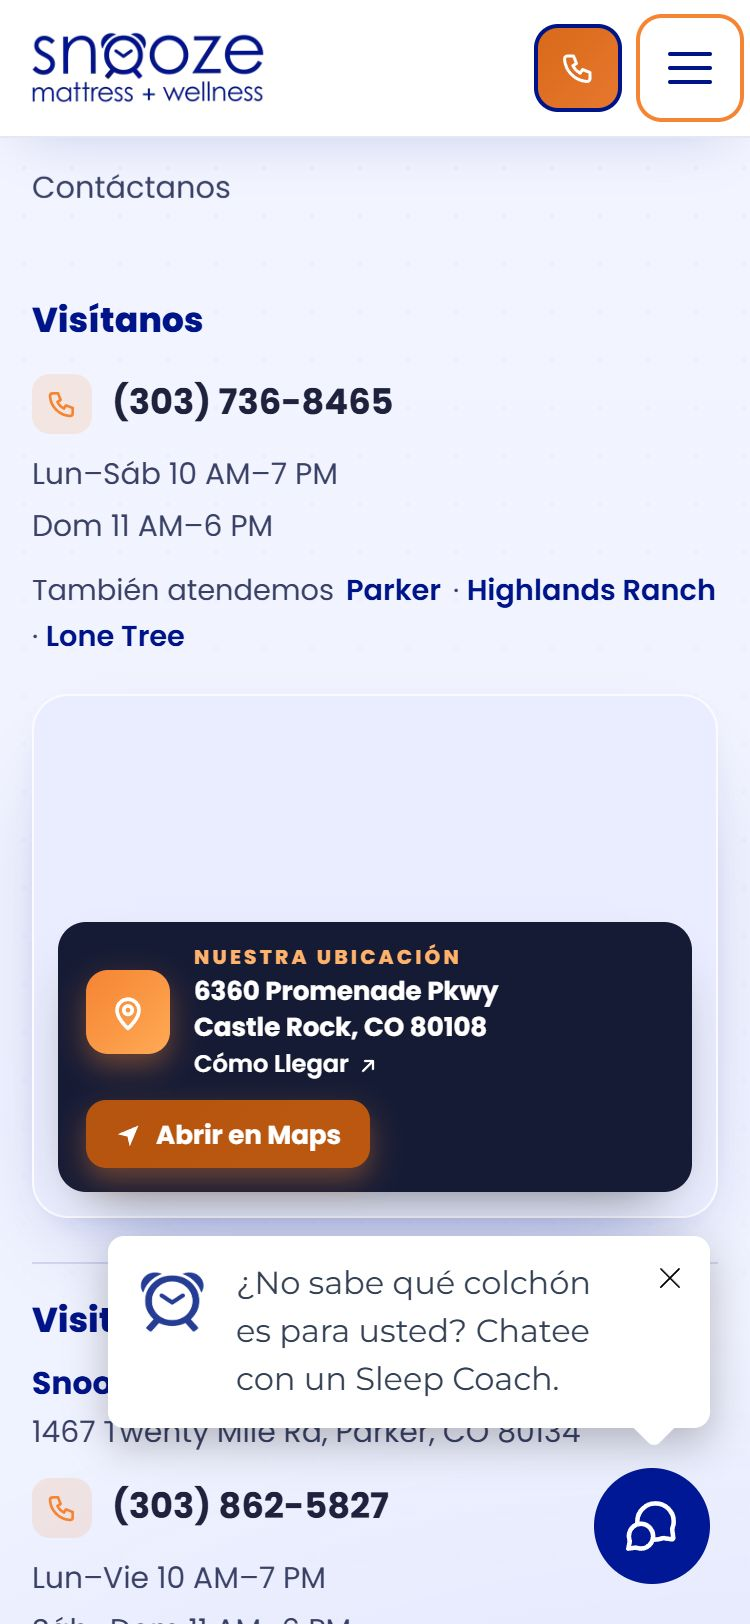
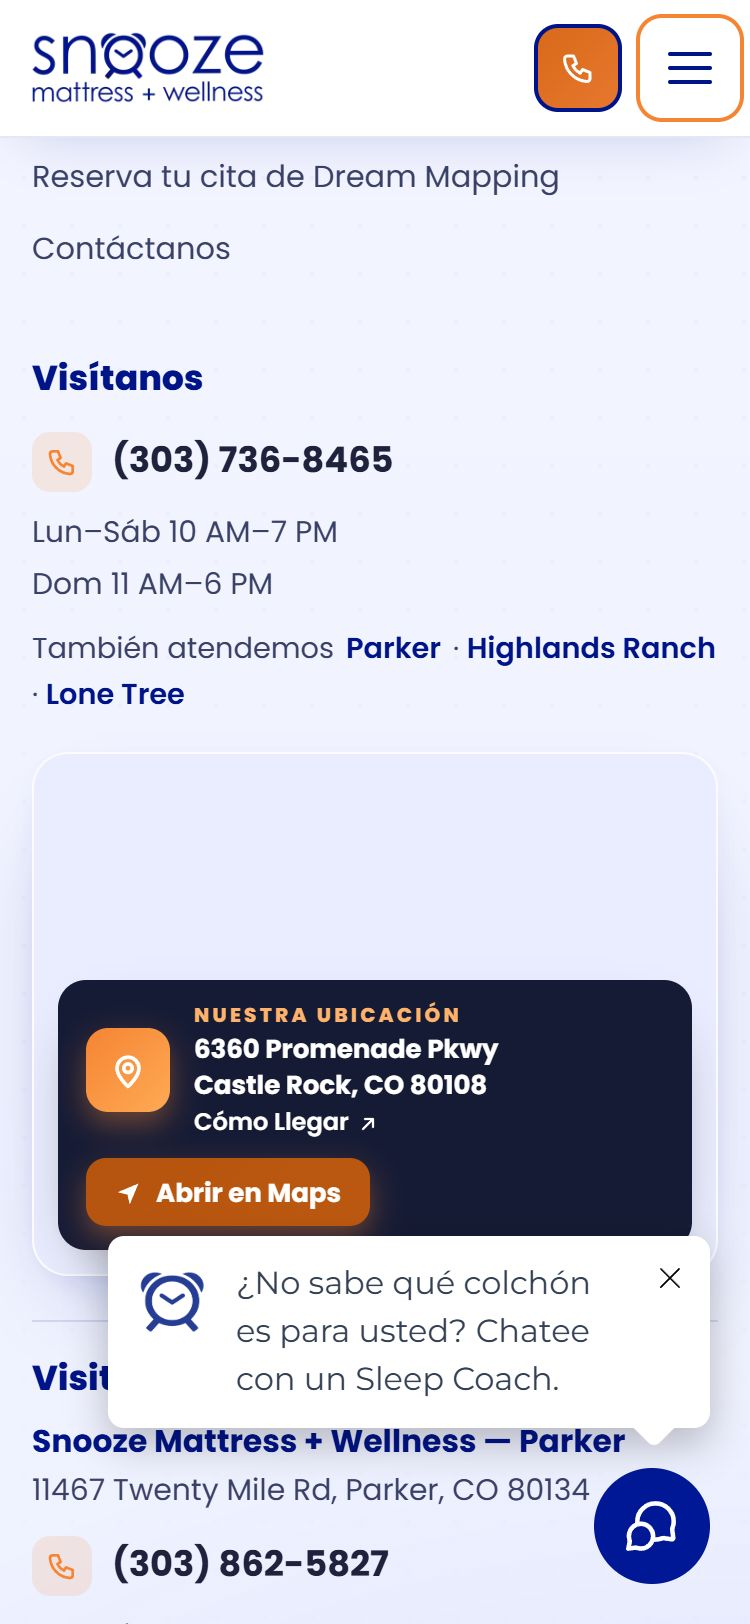
Castle Rock — Sister store: Parker's street number is 11467 Twenty Mile Rd (was 1467)
lib/location.ts SISTER_STORE.street: 11467 Twenty Mile Rd, Parker, CO 80134 (and the comment that quotes the store
data). The "Our Locations" dropdown, the mobile drawer row and the footer's "Visit Our Sister Store" block read it from
there, English and Spanish. README updated; the screenshots in docs/screenshots/sister regenerated (they showed the
old number). Grep: no "1467 " without the leading 1 left in the repo; every built page (75 HTML) carries 11467.

Checked on the production build in Chrome: the sister-store check (EN + ES, 1366 and 375px, dropdown, drawer and
footer each show "11467 Twenty Mile Rd, Parker, CO 80134" and never the bare number) ok; audit CLEAN, schema 0 errors,
parity 37 pairs, es-sync unchanged.

diff --git a/lib/location.ts b/lib/location.ts
@@ -107,12 +107,12 @@ export const LOCATION = {
    SISTER_STORE_URL is the ONE place for the link target: the Parker custom domain, which resolves (today it still
    answers with the store's previous site; the new one takes over when the domain is attached to its project — nothing
    to swap here then). Store data as supplied, exact:
-     1467 Twenty Mile Rd, Parker, CO 80134 · (303) 862-5827 · Mon–Fri 10 AM–7 PM, Sat–Sun 11 AM–6 PM */
+     11467 Twenty Mile Rd, Parker, CO 80134 · (303) 862-5827 · Mon–Fri 10 AM–7 PM, Sat–Sun 11 AM–6 PM */
 export const SISTER_STORE_URL = 'https://parker.snoozemattresscompany.com';
 export const SISTER_STORE = {
   name: 'Snooze Mattress + Wellness',
   city: 'Parker',
-  street: '1467 Twenty Mile Rd',
+  street: '11467 Twenty Mile Rd',
   region: 'CO',
   postalCode: '80134',
   phone: '(303) 862-5827',

diff --git a/README.md b/README.md
@@ -594,7 +594,7 @@ The client's LeadConnector chat widgets, one per language; nothing else changed.
 Castle Rock and Parker are the same owner, a few miles apart. This site now links to the Parker store in two places,
 English and Spanish; nothing else changed (the structured data in particular: no `sameAs`, no `relatedLink`).
 
-- **One source.** `lib/location.ts` `SISTER_STORE` (name, Parker, 1467 Twenty Mile Rd, Parker, CO 80134,
+- **One source.** `lib/location.ts` `SISTER_STORE` (name, Parker, 11467 Twenty Mile Rd, Parker, CO 80134 — street number corrected November 11, 2026 —
   (303) 862-5827, Mon–Fri 10 AM–7 PM / Sat–Sun 11 AM–6 PM, Spanish hours) and `SISTER_STORE_URL` — the ONE place for
   the link target, `https://parker.snoozemattresscompany.com`. That domain resolves today (it serves the Parker store's
   current site; the new Parker build takes it over when it is attached to its project), so the brief's fallback — the
